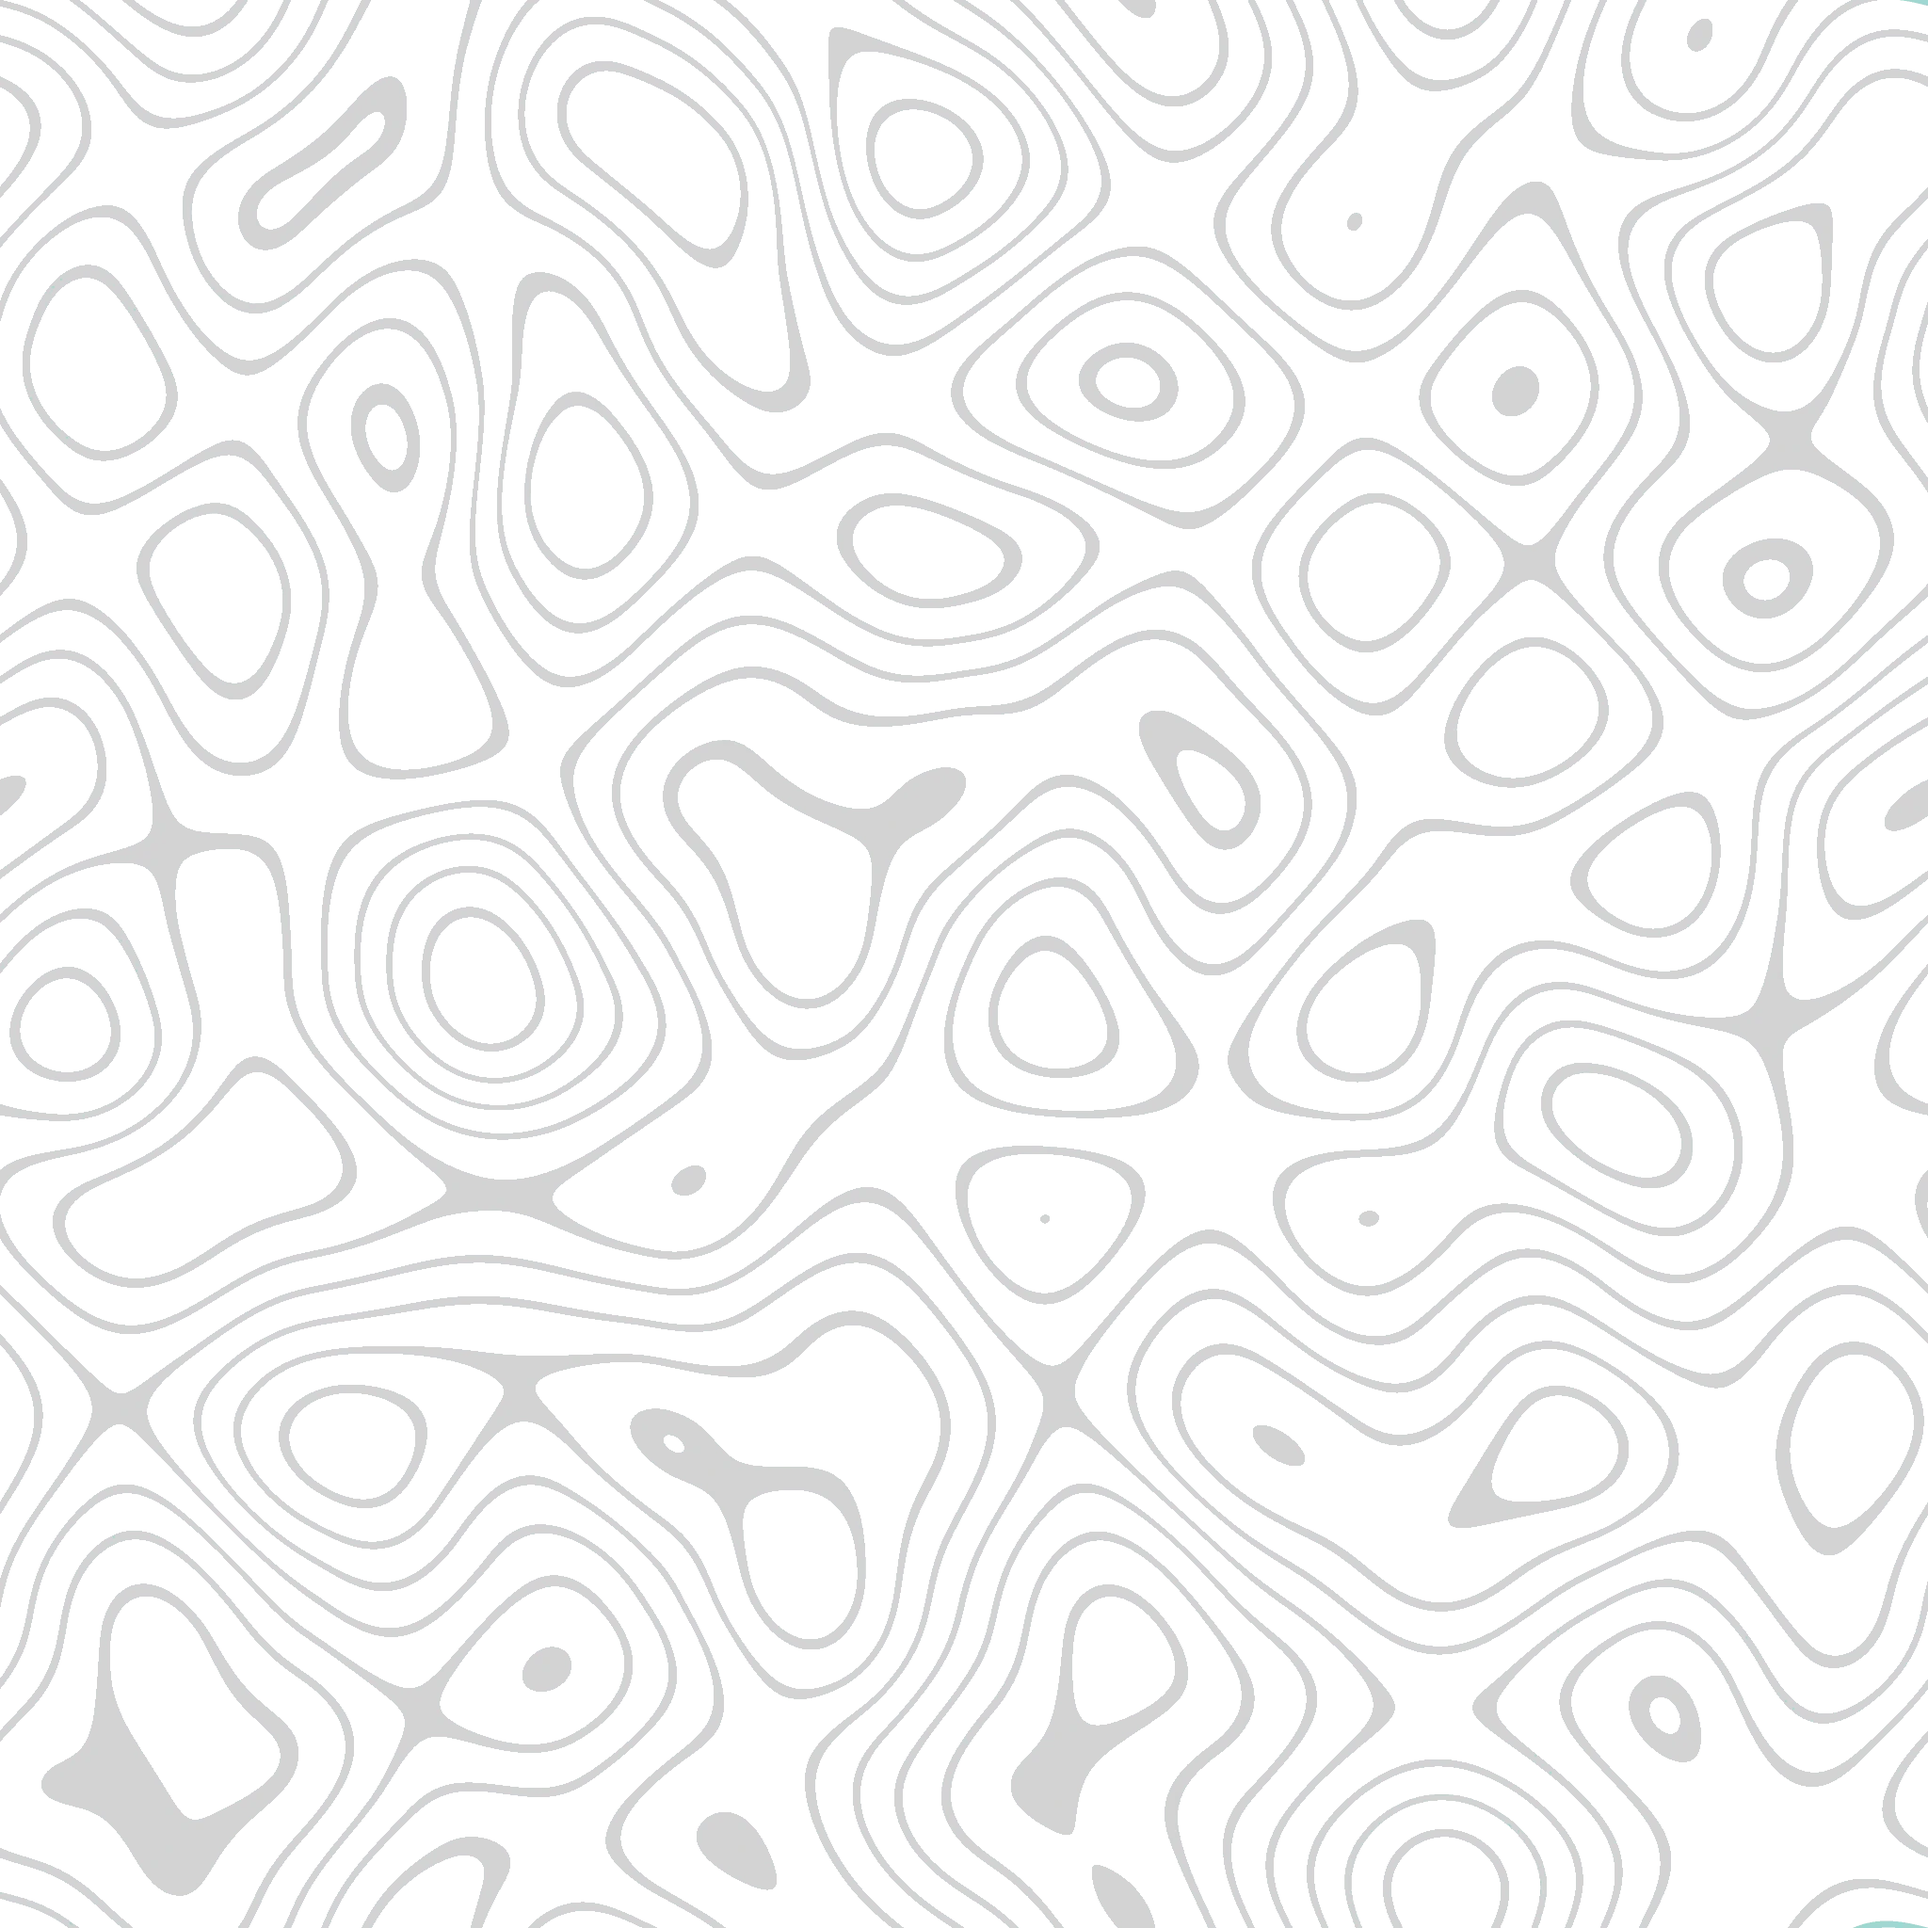
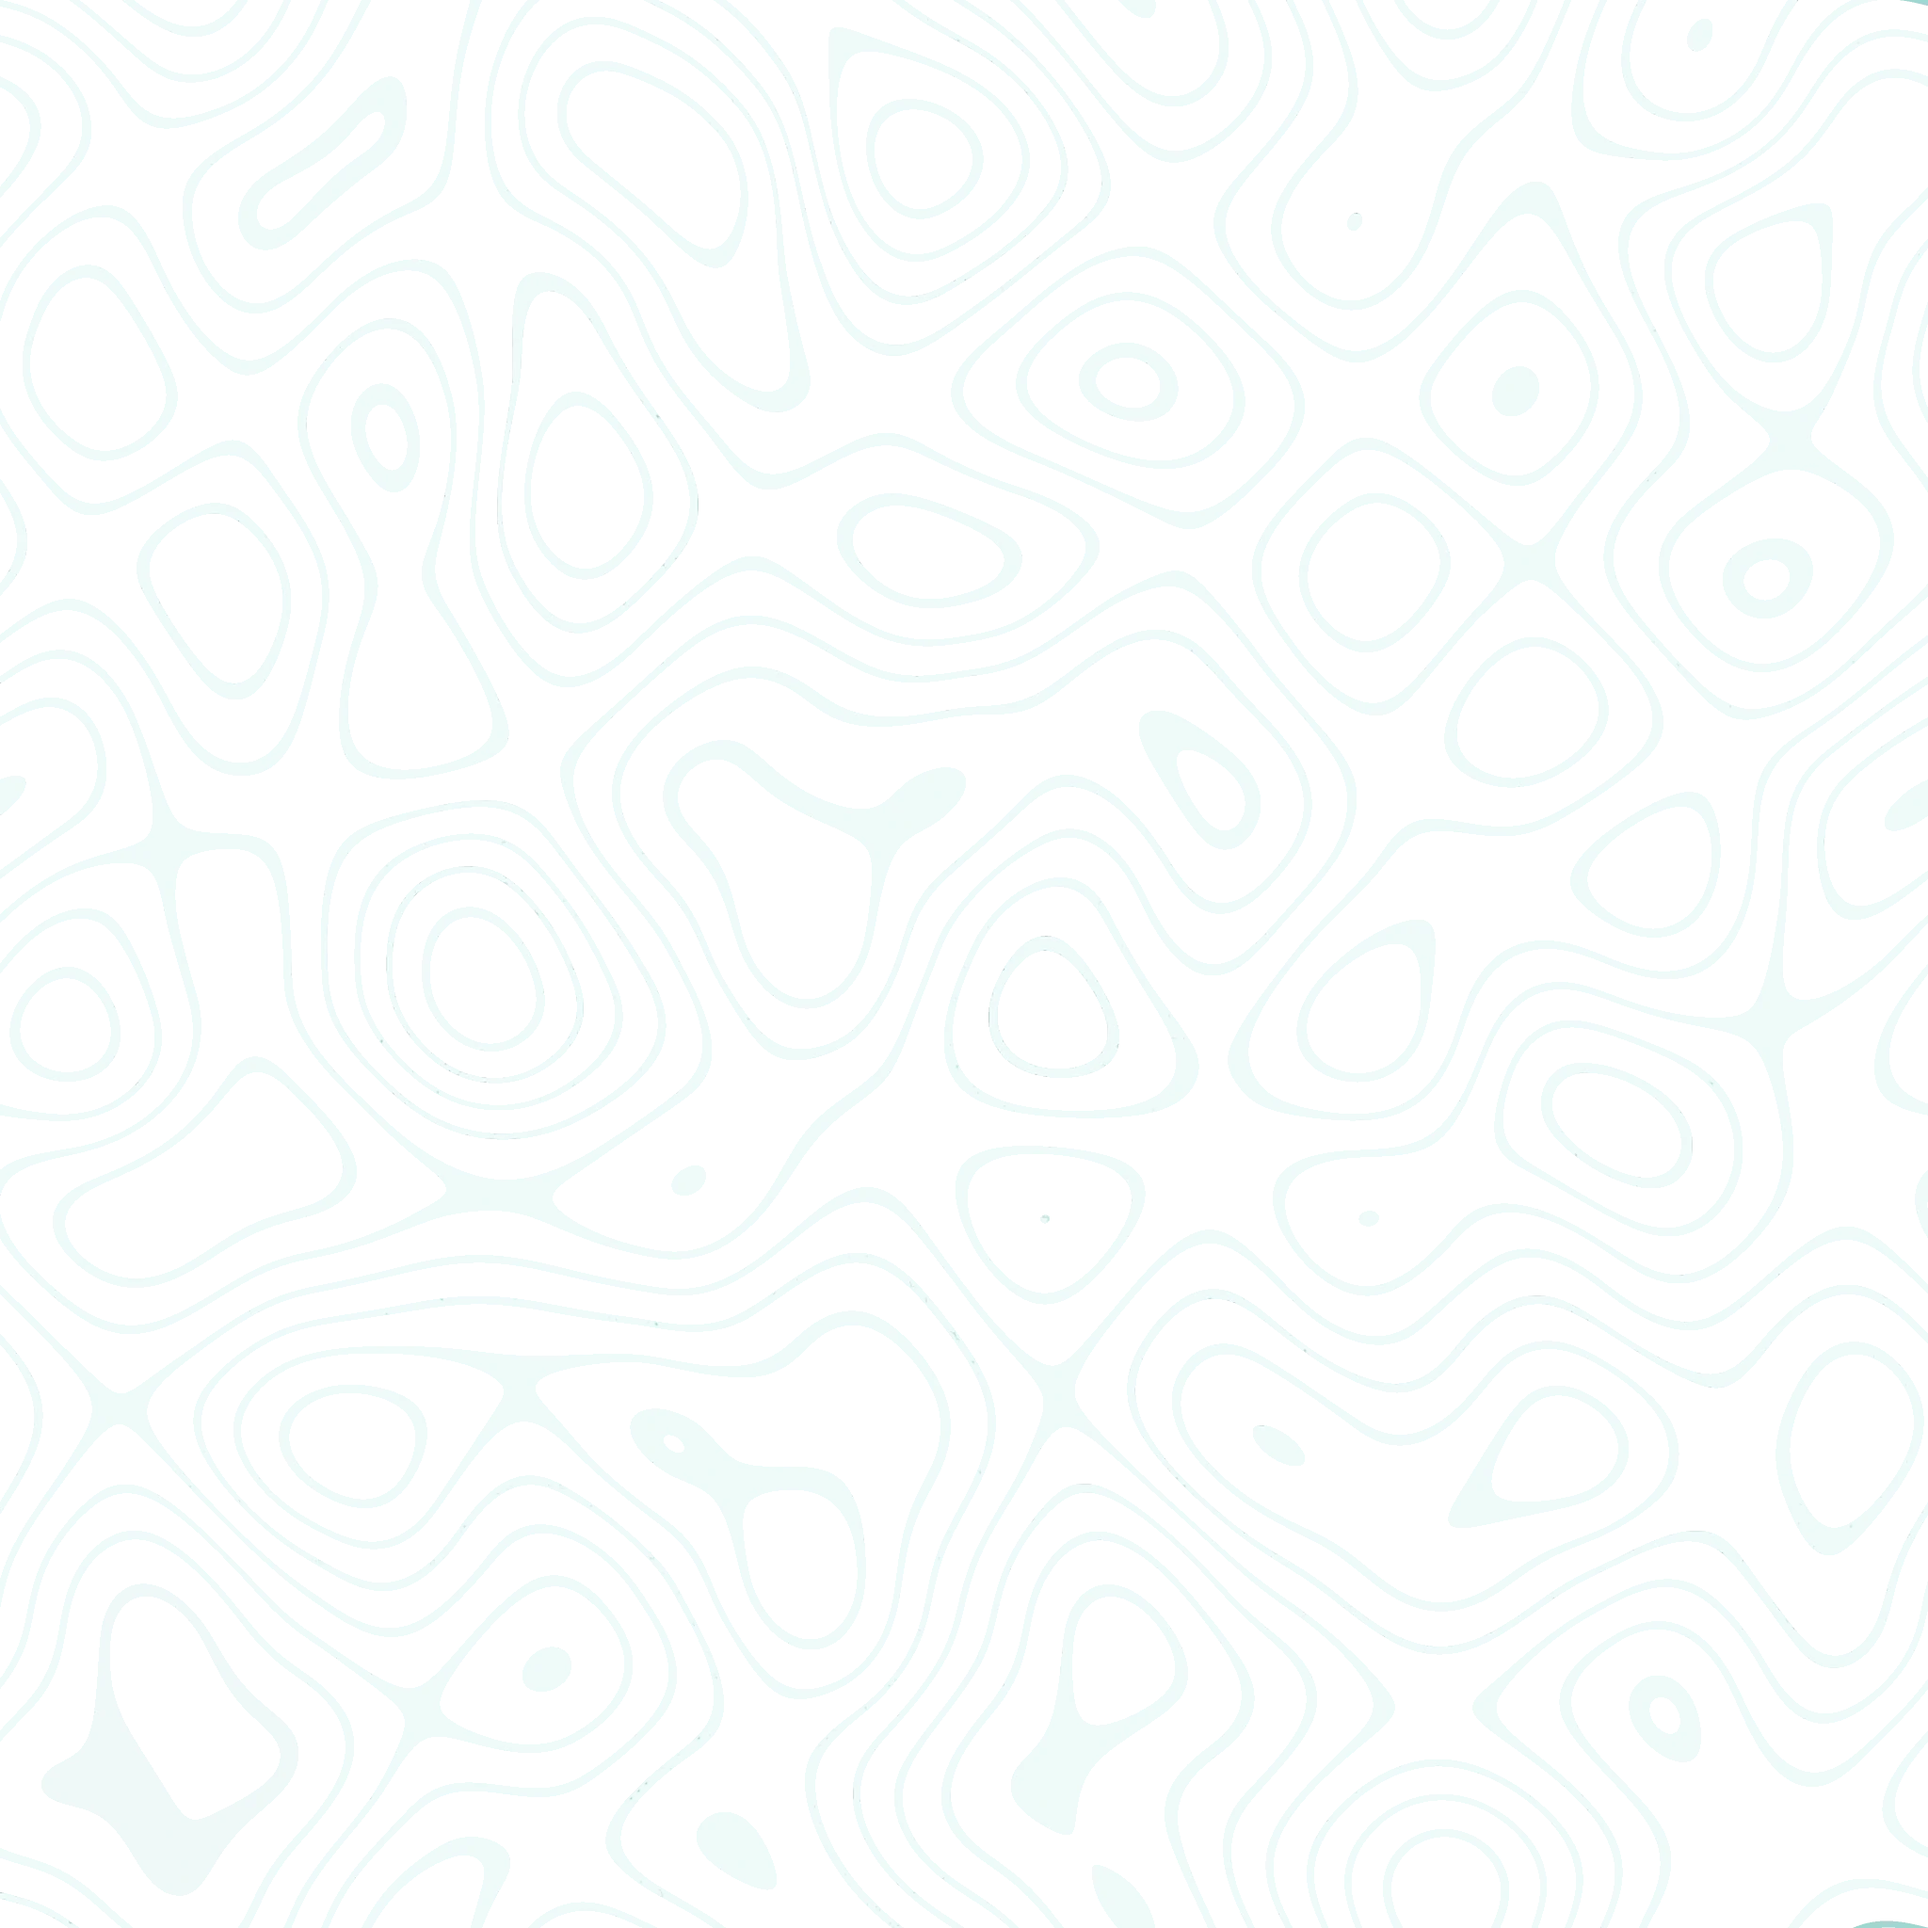
add file contact.html

Changed region(s): [[0.0, 0.0, 1.0, 1.0]]

diff --git a/style_contact.css b/style_contact.css
@@ -1,0 +1,91 @@
+body {
+    background-image: url(pictures/background.webp);
+    background-attachment: fixed;
+    background-repeat: no-repeat;
+    background-size: cover;
+}
+header {
+    position: absolute;
+    top: 0px;
+    left: 0px;
+    background: #9FD7D3;
+    width: 100%;
+    height: 119px;
+    opacity: 0.8;
+}
+header h1 a {
+    color: white;
+    position: relative;
+    top: 16px; left: 100px;
+    text-decoration: none;
+    font-family: 'Inter';
+    font-style: normal;
+    font-weight: 700;
+    font-size: 30px;
+}
+header nav ul {
+    list-style-type: none;
+    float: left;
+    display: flex;
+    position: relative;
+    top: -50px; left: 1500px;
+    font-family: 'Inter';
+    font-style: normal;
+}
+header li {
+    margin-left: 30px;
+    font-size: 20px;
+}
+header li a {
+    text-decoration: none;
+    font-size: 25px;
+    color: #FFFFFF;
+}
+picture.Banner img {
+    position: absolute;
+    width: 1905px;
+    height: 996px;
+    left: 0px;
+    top: -8px;
+    z-index: -1;
+}
+section.Contact picture.Start_image img {
+    position: absolute;
+    width: 1242px;
+    height: 299px;
+    left: 593px;
+    top: 1147px;
+}
+section.Contact h2 {
+    position: absolute;
+    width: 427px;
+    height: 54px;
+    left: 85px;
+    top: 1147px;
+    font-family: 'Inter';
+    font-style: normal;
+    font-weight: 900;
+    font-size: 40px;
+    line-height: 54px;
+    text-align: center;
+    color: #9FD7D3;
+}
+section.Localisation p {
+    position: absolute;
+    width: 310px;
+    height: 24px;
+    left: 144px;
+    top: 1272px;
+    font-family: 'Inter';
+    font-style: normal;
+    font-weight: 900;
+    font-size: 20px;
+    line-height: 24px;
+    text-align: center;
+    color: #888888;
+}
+section.Localisation img {
+    position: absolute;
+    left: 110px;
+    top: 1280px;
+}

diff --git a/Contact.html b/Contact.html
@@ -1,0 +1,40 @@
+<!DOCTYPE html>
+<html>
+<head>
+    <meta charset="UTF-8">
+    <title>Contactez Archik Intérieur pour un accompagnement personnalisé</title>
+    <link rel="stylesheet" href="style_contact.css">
+    <meta name="Contact" content="Vous avez un projet en tête ?
+    Contactez-nous pour discuter de vos idées et voir comment nous pouvons vous aider à les réaliser.">
+</head>
+<body>
+    <header>
+        <h1 class="titre"><a href="#">ARCHIK INTERIEUR</a></h1>
+        <nav>
+            <ul>
+                <li><a href="#" title="Lien vers nos services">Services</a></li>
+                <li><a href="#" title="Allez jeter un oeil sur les projets réalisés dans notre entreprise">Projets</a></li>
+                <li><a href="#" title="Nous contacter">Contact</a></li>
+            </ul>
+        </nav>
+    </header>
+    <main>
+        <picture class="Banner">
+            <source srcset="pictures/Bannière.webp" type="image/webp">
+            <img src="pictures/Bannière.webp" alt="Bannière">
+        </picture>
+        <section class="Contact">
+            <picture class="Start_image">
+                <img src="pictures/archik-la-revue-article-interieur-particulier-photo-15 1.webp" alt="Archik, la revue d'article interieur particulier">
+            </picture>
+            <h2>ARCHIK INTERIEUR</h2>
+        </section>
+        <section class="Localisation">
+            <picture>
+                <img src="pictures/Localisation.webp" alt="Localisation">
+            </picture>
+            <p>Rue Madame 14 - 7500 Tournai</p>
+        </section>
+    </main>
+</body>
+</html>
